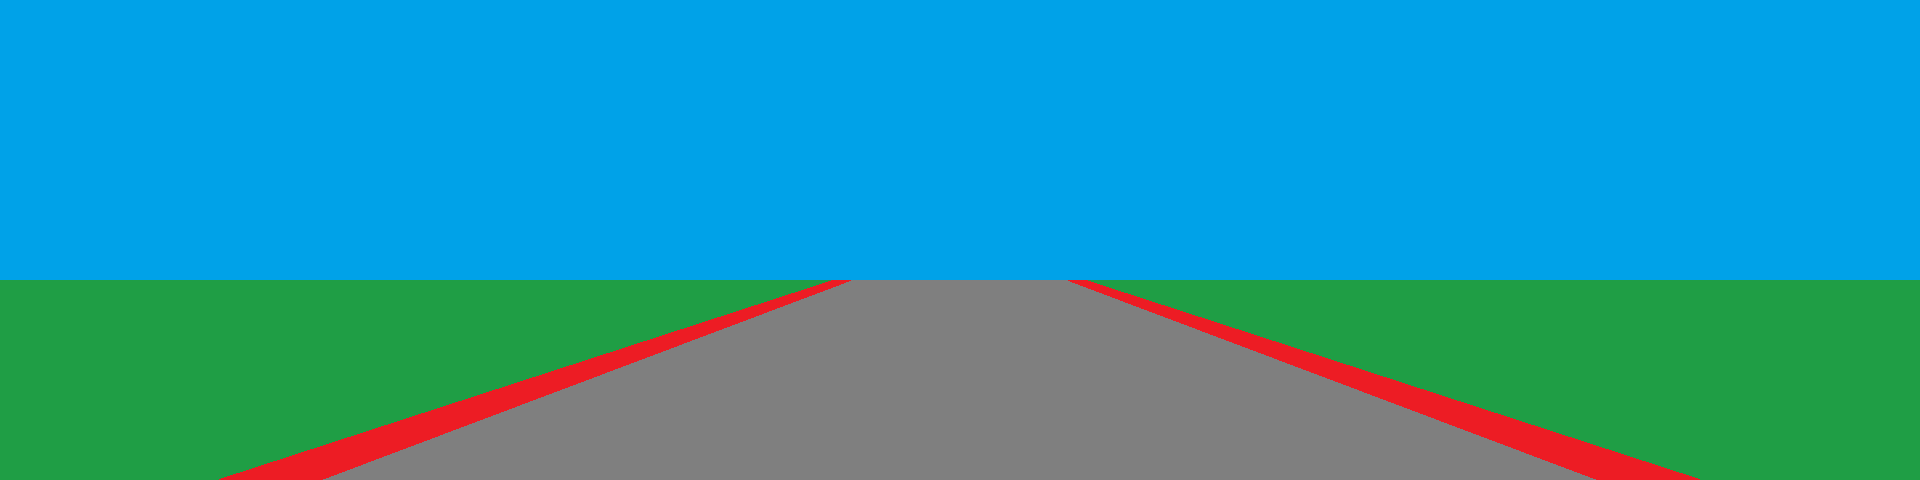
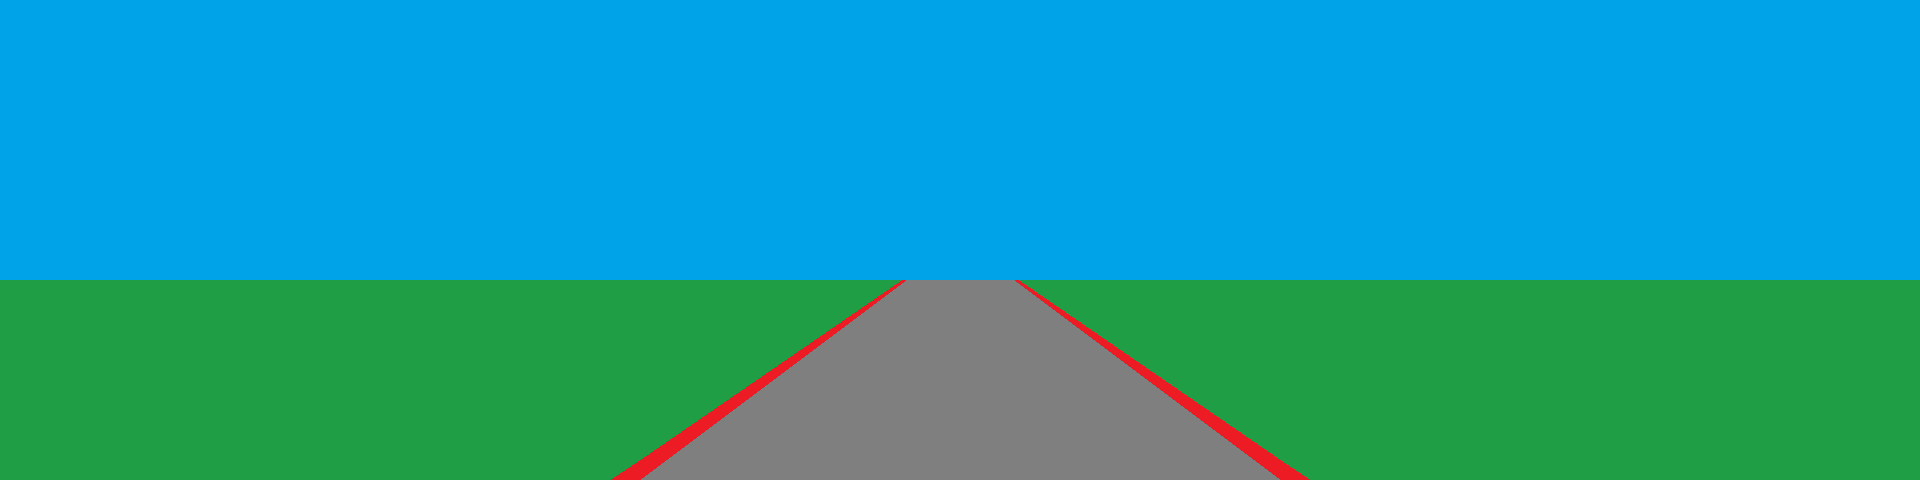
[FT] Update "wide" textures.  Make use of them

Changed region(s): [[0.5312, 0.5625, 0.875, 1.0], [0.125, 0.5625, 0.4688, 1.0]]

diff --git a/core/src/com/redbay/game/TitleScreen.java b/core/src/com/redbay/game/TitleScreen.java
@@ -11,6 +11,11 @@ import java.util.ArrayList;
 
 public class TitleScreen implements Screen
 {
+  private final static int SCREEN_SIZE_X = 640;
+  private final static int SCREEN_SIZE_Y = 480;
+  private final static int SCREEN_HALF_SIZE_X = 320;
+  private final static int SCREEN_HALF_SIZE_Y = 240;
+
   private final static int CAR_MAX_SPEED = 8800;  // CM/sec
   private final static int CAR_ACCEL = 40;
   private final static int CAR_BRAKE = 40;
@@ -24,6 +29,8 @@ public class TitleScreen implements Screen
   private int carSpeed = 4400;
   private int carPos = 0;
 
+  private int hOffset = 0;
+
   Track track = new Track();
 
   public TitleScreen()
@@ -31,8 +38,8 @@ public class TitleScreen implements Screen
     // Initialize some shiz
     batch = new SpriteBatch();
 
-    img.add(new Texture("Road.png"));
-    img.add(new Texture("RoadDark.png"));
+    img.add(new Texture("RoadWide.png"));
+    img.add(new Texture("RoadWideDark.png"));
 
     // Initialize new track
     track.addSegment(new TrackSegment(500, 0));
@@ -65,6 +72,17 @@ public class TitleScreen implements Screen
       carSpeed -= CAR_BRAKE;
     }
 
+    if (Gdx.input.isKeyPressed(Input.Keys.LEFT))
+    {
+      hOffset -= 5;
+    }
+
+    if (Gdx.input.isKeyPressed(Input.Keys.RIGHT))
+    {
+      hOffset += 5;
+    }
+
+
 //    if (!isGivingThrottle)
 //      carSpeed -= 10;
 
@@ -81,19 +99,21 @@ public class TitleScreen implements Screen
     Texture road;
     for (int scrY = 0; scrY < 200 ; scrY++)
     {
-      int z = carPos + (CAMERA_HEIGHT_FROM_GROUND * SCALING_FACTOR_Y) / (scrY - 240);
+      int z = carPos + (CAMERA_HEIGHT_FROM_GROUND * SCALING_FACTOR_Y) / (scrY - SCREEN_HALF_SIZE_Y);
 
       // 250cm is the "rumble length" -- each "small" section of road.
       int roadIndex = (z / 250) % 2;
+
+      track.getTrackCurvature(z % track.getTrackLength());
 
       road = img.get(roadIndex);
       batch.draw(
           road,
           0,
           scrY,
-          0,
-          road.getHeight() - 1 - scrY,
-          road.getWidth(),
+          road.getWidth() / 2 - SCREEN_HALF_SIZE_X,  // Center of the image, minus 320 (half the screen width)
+          road.getHeight() - scrY  - 1,  // -1, 0 based index.
+          SCREEN_SIZE_X,
           1);
     }
 
